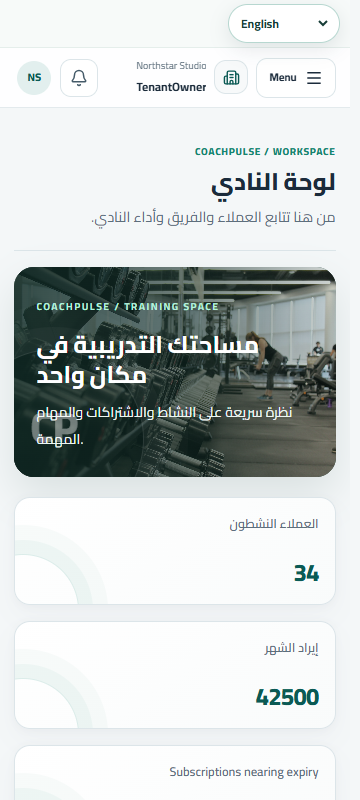
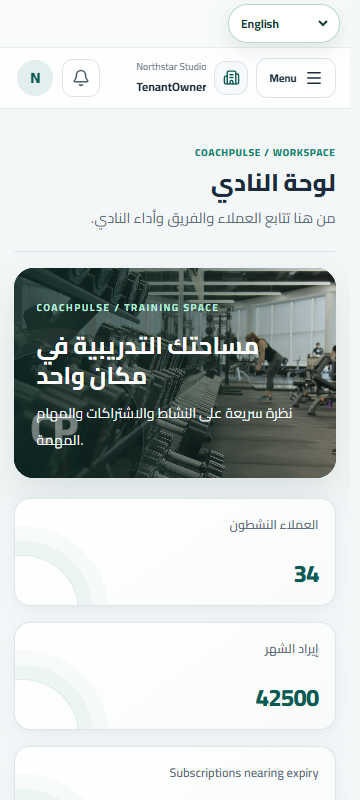
feat(frontend): improve profile and exercise cards

diff --git a/CoachPulse.Frontend/src/App.tsx b/CoachPulse.Frontend/src/App.tsx
@@ -379,7 +379,6 @@ function Shell() {
     { to: '/app/conversations', label: t('Conversations'), icon: MessageCircle },
     { to: '/app/payments', label: t('Payments'), icon: CreditCard },
     { to: '/app/subscriptions', label: t('Subscriptions'), icon: CreditCard },
-    { to: '/app/notifications', label: t('Notifications'), icon: Bell },
     { to: '/app/ai', label: t('AI tools'), icon: Sparkles },
     { to: '/app/ai-review', label: t('AI review'), icon: Check },
     ...(owner ? [{ to: '/app/settings', label: t('Workspace settings'), icon: Settings }, { to: '/app/analytics', label: t('Analytics'), icon: BarChart3 }, { to: '/app/audit', label: t('Audit log'), icon: ScrollText }] : []),
@@ -388,8 +387,8 @@ function Shell() {
     <button className="workspace-scrim" aria-label="Close navigation" onClick={closeDrawer} tabIndex={drawerOpen ? 0 : -1} />
     <aside id="workspace-navigation" className="workspace-drawer"><div className="workspace-sidebar-brand"><Link className="brand" to="/app/dashboard">Coach<span>Pulse</span></Link><button type="button" className="workspace-sidebar-collapse" aria-label={sidebarCollapsed ? t('Expand sidebar') : t('Collapse sidebar')} onClick={() => setSidebarCollapsed(value => !value)}>{sidebarCollapsed ? <PanelLeftOpen size={18} /> : <PanelLeftClose size={18} />}</button></div><div className="identity"><span className="identity-name">{tenantName || me.data?.name || 'Workspace'}</span><small>{me.data?.role}</small></div><nav onClick={closeDrawer} aria-label={t('Workspace navigation')}>
       {navItems.map(({ to, label, icon: Icon }) => <NavLink to={to} key={to} title={label}><Icon size={18} aria-hidden="true" /><span>{label}</span></NavLink>)}
-    </nav><button className="logout" onClick={() => void logout()}><LogOut size={17} /><span>{t('Sign out')}</span></button></aside>
-    <main dir={language === 'ar' ? 'rtl' : 'ltr'}><WorkspaceTopbar name={me.data?.name || 'Workspace'} role={me.data?.role || 'CoachStaff'} tenantName={tenantName} logoUrl={logoUrl} accountPath="/app/account" onLogout={() => void logout()} onToggleDrawer={() => setDrawerOpen(value => !value)} onToggleSidebar={() => setSidebarCollapsed(value => !value)} drawerOpen={drawerOpen} collapsed={sidebarCollapsed} /><Routes>
+    </nav></aside>
+    <main dir={language === 'ar' ? 'rtl' : 'ltr'}><WorkspaceTopbar name={me.data?.name || 'Workspace'} role={me.data?.role || 'CoachStaff'} tenantName={tenantName} logoUrl={logoUrl} avatarFileId={stringField(me.data, 'avatarFileId') || ''} accountPath="/app/account" onLogout={() => void logout()} onToggleDrawer={() => setDrawerOpen(value => !value)} onToggleSidebar={() => setSidebarCollapsed(value => !value)} drawerOpen={drawerOpen} collapsed={sidebarCollapsed} /><Routes>
       <Route path="dashboard" element={<Dashboard />} /><Route path="clients" element={<Clients />} /><Route path="coaches" element={<CoachTeamWorkspace />} /><Route path="team" element={me.data?.role === 'TenantOwner' ? <CoachTeamWorkspace /> : <Navigate to="dashboard" replace />} /><Route path="checkins-review" element={<PendingCheckInReviews />} /><Route path="programs" element={<CoachPrograms />} /><Route path="exercises" element={<ExerciseLibrary />} /><Route path="meal-plans" element={<MealPlanWorkspace />} /><Route path="plans" element={me.data?.role === 'TenantOwner' ? <TenantPlans /> : <Navigate to="dashboard" replace />} /><Route path="conversations" element={<Conversations />} /><Route path="payments" element={<><Payments /><TenantPaymentInsights /></>} /><Route path="subscriptions" element={<SubscriptionManagement />} /><Route path="notifications" element={<NotificationCenter />} /><Route path="ai" element={<AiWorkspace />} /><Route path="ai-review" element={<AiAdvancedWorkspace />} /><Route path="settings" element={<TenantSettings />} /><Route path="analytics" element={<TenantAnalytics />} /><Route path="audit" element={<TenantAudit />} /><Route path="account" element={<AccountPage />} /><Route path="*" element={<Navigate to="dashboard" replace />} />
     </Routes></main>
   </div>
@@ -412,20 +411,29 @@ function tenantThemeStyle(value: unknown): React.CSSProperties {
   return { '--tenant-primary': hex, '--tenant-primary-dark': dark, '--tenant-on-primary': onPrimary } as React.CSSProperties
 }
 
-function WorkspaceTopbar({ name, role, tenantName, logoUrl, accountPath, onLogout, onToggleDrawer, onToggleSidebar, drawerOpen, collapsed }: { name: string; role: string; tenantName?: string; logoUrl?: string; accountPath: string; onLogout: () => void; onToggleDrawer: () => void; onToggleSidebar: () => void; drawerOpen: boolean; collapsed: boolean }) {
+function WorkspaceTopbar({ name, role, tenantName, logoUrl, avatarFileId, accountPath, onLogout, onToggleDrawer, onToggleSidebar, drawerOpen, collapsed }: { name: string; role: string; tenantName?: string; logoUrl?: string; avatarFileId?: string; accountPath: string; onLogout: () => void; onToggleDrawer: () => void; onToggleSidebar: () => void; drawerOpen: boolean; collapsed: boolean }) {
   const { t } = useLanguage()
   const notifications = useNotifications(1, 50, true)
   const unreadData = notifications.data && typeof notifications.data === 'object' ? notifications.data as Record<string, unknown> : {}
   const unreadCount = Number(unreadData.unreadCount ?? unreadData.unreadTotal ?? objectItems(notifications.data).length)
-  const initials = name.split(/\s+/).filter(Boolean).slice(0, 2).map(part => part[0]?.toLocaleUpperCase()).join('') || 'CP'
   return <header className="workspace-topbar">
     <div className="workspace-topbar-context"><button className="workspace-menu-toggle" aria-label={drawerOpen ? t('Close navigation') : t('Open navigation')} aria-expanded={drawerOpen} aria-controls="workspace-navigation" onClick={onToggleDrawer}>{drawerOpen ? <X size={18} /> : <Menu size={18} />}<span>{t('Menu')}</span></button><div className="workspace-context-brand">{logoUrl ? <img src={logoUrl} alt="" /> : <span className="workspace-context-mark"><Building2 size={17} /></span>}<span><small>{tenantName || t('Coaching workspace')}</small><strong>{t(role)}</strong></span></div></div>
-    <div className="workspace-topbar-actions"><Link className="workspace-notification-link" to={accountPath.replace(/account|profile$/, 'notifications')} aria-label={`${t('Notifications')}${unreadCount ? `, ${unreadCount} ${t('unread')}` : ''}`}><Bell size={18} />{unreadCount > 0 && <span className="workspace-unread-badge">{unreadCount > 99 ? '99+' : unreadCount}</span>}</Link><details className="workspace-user-menu"><summary><span className="workspace-user-avatar">{initials}</span><span className="workspace-user-copy"><strong>{name}</strong><small>{tenantName || t(role)}</small></span><ChevronDown size={15} /></summary><div className="workspace-user-popover"><Link to={accountPath}><UserRound size={16} />{t('Account')}</Link><button type="button" onClick={onLogout}><LogOut size={16} />{t('Sign out')}</button></div></details><button type="button" className="workspace-collapse-toggle" aria-label={collapsed ? t('Expand sidebar') : t('Collapse sidebar')} title={collapsed ? t('Expand sidebar') : t('Collapse sidebar')} onClick={onToggleSidebar}>{collapsed ? <PanelLeftOpen size={18} /> : <PanelLeftClose size={18} />}</button></div>
+    <div className="workspace-topbar-actions"><Link className="workspace-notification-link" to={accountPath.replace(/account|profile$/, 'notifications')} aria-label={`${t('Notifications')}${unreadCount ? `, ${unreadCount} ${t('unread')}` : ''}`}><Bell size={18} />{unreadCount > 0 && <span className="workspace-unread-badge">{unreadCount > 99 ? '99+' : unreadCount}</span>}</Link><details className="workspace-user-menu"><summary><AccountAvatar fileId={avatarFileId || ''} name={name} /><span className="workspace-user-copy"><strong>{name}</strong><small>{tenantName || t(role)}</small></span><ChevronDown size={15} /></summary><div className="workspace-user-popover"><Link to={accountPath}><UserRound size={16} />{t('Account')}</Link><button type="button" onClick={onLogout}><LogOut size={16} />{t('Sign out')}</button></div></details><button type="button" className="workspace-collapse-toggle" aria-label={collapsed ? t('Expand sidebar') : t('Collapse sidebar')} title={collapsed ? t('Expand sidebar') : t('Collapse sidebar')} onClick={onToggleSidebar}>{collapsed ? <PanelLeftOpen size={18} /> : <PanelLeftClose size={18} />}</button></div>
   </header>
 }
 
 function DashboardHero({ title, subtitle, image }: { title: string; subtitle: string; image: string }) { const { t } = useLanguage(); return <section className="visual-hero"><img src={image} alt="" loading="lazy" /><div className="visual-hero-shade" /><div className="visual-hero-copy"><span className="eyebrow">COACHPULSE / TRAINING SPACE</span><h2>{t(title)}</h2><p>{t(subtitle)}</p></div><div className="visual-hero-mark" aria-hidden="true"><span>CP</span></div></section> }
-function ExerciseMedia({ value }: { value: unknown }) { const videoUrl = stringField(value, 'videoUrl'); const mediaUrl = (() => { try { const parsed = videoUrl ? new URL(videoUrl) : null; return parsed?.protocol === 'https:' ? parsed : null } catch { return null } })(); const directVideo = Boolean(mediaUrl && /\.(mp4|webm)$/i.test(mediaUrl.pathname)); return <section className="exercise-media"><div className="exercise-media-image"><img src="/media/exercise-training.jpg" alt="Strength training equipment" loading="lazy" /></div><div className="exercise-media-copy"><span className="eyebrow">MOVEMENT LIBRARY</span><h3>{stringField(value, 'name') ?? 'Exercise preview'}</h3><p>{stringField(value, 'muscleGroup') ?? 'Explore the selected movement and its training details.'}</p>{directVideo && mediaUrl ? <video controls preload="metadata" playsInline src={mediaUrl.href} aria-label="Exercise demonstration video" /> : mediaUrl ? <a className="media-link" href={mediaUrl.href} target="_blank" rel="noreferrer">Open exercise demonstration</a> : <small>Add a secure demo video URL to this exercise to show it here.</small>}</div></section> }
+function exerciseMediaUrl(value: unknown) { try { const url = new URL(stringField(value, 'videoUrl') || ''); return url.protocol === 'https:' ? url : null } catch { return null } }
+function ExerciseVideo({ value }: { value: unknown }) {
+  const url = exerciseMediaUrl(value)
+  if (!url) return <p className="exercise-video-unavailable">No demonstration video is available for this exercise yet.</p>
+  if (/\.(mp4|webm|ogg)$/i.test(url.pathname)) return <video className="exercise-video-player" controls preload="metadata" playsInline src={url.href} aria-label={`${stringField(value, 'name') ?? 'Exercise'} demonstration video`} />
+  const youtubeId = url.hostname === 'youtu.be' ? url.pathname.slice(1) : ['youtube.com', 'www.youtube.com', 'm.youtube.com', 'youtube-nocookie.com', 'www.youtube-nocookie.com'].includes(url.hostname) ? url.pathname === '/watch' ? url.searchParams.get('v') : url.pathname.split('/').filter(Boolean).at(-1) : null
+  const vimeoId = ['vimeo.com', 'www.vimeo.com', 'player.vimeo.com'].includes(url.hostname) ? url.pathname.split('/').filter(Boolean).at(-1) : null
+  const embedUrl = youtubeId && /^[\w-]{11}$/.test(youtubeId) ? `https://www.youtube-nocookie.com/embed/${youtubeId}` : vimeoId && /^\d+$/.test(vimeoId) ? `https://player.vimeo.com/video/${vimeoId}` : null
+  return <div className="exercise-video-frame">{embedUrl ? <iframe src={embedUrl} title={`${stringField(value, 'name') ?? 'Exercise'} demonstration video`} loading="lazy" allow="accelerometer; autoplay; clipboard-write; encrypted-media; gyroscope; picture-in-picture; web-share" referrerPolicy="strict-origin-when-cross-origin" allowFullScreen /> : <a className="media-link" href={url.href} target="_blank" rel="noreferrer">Open exercise demonstration</a>}</div>
+}
+function ExerciseMedia({ value }: { value: unknown }) { return <section className="exercise-media"><div className="exercise-media-image"><img src="/media/exercise-training.jpg" alt="Strength training equipment" loading="lazy" /></div><div className="exercise-media-copy"><span className="eyebrow">MOVEMENT LIBRARY</span><h3>{stringField(value, 'name') ?? 'Exercise preview'}</h3><p>{stringField(value, 'muscleGroup') ?? 'Explore the selected movement and its training details.'}</p><ExerciseVideo value={value} /></div></section> }
 
 function DashboardLegacy() {
   const query = useDashboard()
@@ -1795,6 +1803,7 @@ function TenantAudit() {
   </Page>
 }
 function MyProgram() {
+  const { t } = useLanguage()
   const today = useMyProgram()
   const history = useQuery({ queryKey: ['my', 'programs'], queryFn: () => apiFetch<unknown>('/my/programs?page=1&pageSize=20') })
   if (today.isLoading || history.isLoading) return <Loading />
@@ -1809,7 +1818,7 @@ function MyProgram() {
       {activeProgram ? <><h3>{String(activeProgram.title ?? 'Training program')}</h3><div className="data-grid"><div className="data-field"><dt>Status</dt><dd>{String(activeProgram.status ?? 'Active')}</dd></div>{Boolean(activeProgram.startDate) && <div className="data-field"><dt>Start date</dt><dd><DataValue value={activeProgram.startDate} /></dd></div>}</div></> : <p className="empty-state">Your coach has not assigned a program yet. Your training plan will appear here once it is assigned.</p>}
     </section>
     <section className="panel"><div className="section-heading"><div><span className="eyebrow">{todayData.dayNumber ? 'Training day ' + String(todayData.dayNumber) : 'Today'}</span><h2>Today's exercises</h2></div></div>
-      {exercises.length ? <div className="client-exercise-list">{exercises.map((exercise,index)=><article className="client-exercise-card" key={String(exercise.id ?? index)}><div><h3>{String(exercise.exerciseName ?? exercise.name ?? 'Exercise')}</h3><p>{String(exercise.muscleGroup ?? '')}</p></div><span>{String(exercise.sets ?? '?')} sets</span><span>{String(exercise.reps ?? '?')} reps</span></article>)}</div> : <div className="empty-state callout"><strong>{activeProgram ? 'Rest day' : 'No training plan yet'}</strong><p>{activeProgram ? 'There are no exercises scheduled today. Take time to recover.' : 'Your workout schedule will appear here after your coach assigns a program.'}</p></div>}
+      {exercises.length ? <div className="client-exercise-list">{exercises.map((exercise,index)=><article className="client-exercise-card" key={String(exercise.id ?? index)}><div className="client-exercise-heading"><span className="exercise-card-icon" aria-hidden="true"><Dumbbell size={18} /></span><div><h3>{String(exercise.exerciseName ?? exercise.name ?? t('Exercise'))}</h3><p>{String(exercise.muscleGroup ?? t('Muscle group not specified'))}</p></div></div><div className="client-exercise-stats"><span><strong>{String(exercise.sets ?? '?')}</strong>{t('sets')}</span><span><strong>{String(exercise.reps ?? '?')}</strong>{t('reps')}</span>{exercise.restSeconds != null && <span><strong>{String(exercise.restSeconds)}</strong>{t('seconds rest')}</span>}</div><details className="client-exercise-details"><summary>{t('Exercise details and video')}</summary><div className="client-exercise-expanded"><dl><div><dt>{t('Muscle group')}</dt><dd>{String(exercise.muscleGroup ?? t('Not specified'))}</dd></div><div><dt>{t('Sets')}</dt><dd>{String(exercise.sets ?? '?')}</dd></div><div><dt>{t('Reps')}</dt><dd>{String(exercise.reps ?? '?')}</dd></div>{exercise.restSeconds != null && <div><dt>{t('Rest')}</dt><dd>{String(exercise.restSeconds)} {t('seconds')}</dd></div>}</dl><ExerciseVideo value={{ ...exercise, name: exercise.exerciseName ?? exercise.name ?? t('Exercise') }} /></div></details></article>)}</div> : <div className="empty-state callout"><strong>{activeProgram ? 'Rest day' : 'No training plan yet'}</strong><p>{activeProgram ? 'There are no exercises scheduled today. Take time to recover.' : 'Your workout schedule will appear here after your coach assigns a program.'}</p></div>}
     </section>
     <section className="panel"><div className="section-heading"><div><span className="eyebrow">Training history</span><h2>Past and current programs</h2></div></div>{programs.length ? <div className="client-program-list">{programs.map((item,index)=><article className="client-program-card" key={String(item.id ?? index)}><div><h3>{String(item.title ?? 'Training program')}</h3><small>{item.startDate ? new Intl.DateTimeFormat('en',{dateStyle:'medium'}).format(new Date(String(item.startDate))) : 'Start date unavailable'}</small></div><span className={String(item.status).toLowerCase()==='active'?'status-pill positive':'status-pill'}>{String(item.status ?? '?')}</span></article>)}</div> : <p className="empty-state">No training history yet.</p>}</section>
   </Page>
@@ -1844,10 +1853,9 @@ function MyShell() {
     { to: '/my/checkins', label: t('Check-ins'), icon: Check },
     { to: '/my/payments', label: t('Subscription & payments'), icon: CreditCard },
     { to: '/my/messages', label: t('Messages'), icon: MessageCircle },
-    { to: '/my/notifications', label: t('Notifications'), icon: Bell },
     { to: '/my/onboarding', label: t('Getting started'), icon: UserRound },
   ]
-  return <div className={`shell workspace-shell client-shell${drawerOpen ? ' drawer-open' : ''}${sidebarCollapsed ? ' sidebar-collapsed' : ''}`}><button className="workspace-scrim" aria-label="Close navigation" onClick={closeDrawer} tabIndex={drawerOpen ? 0 : -1} /><aside id="workspace-navigation" className="workspace-drawer"><div className="workspace-sidebar-brand"><Link className="brand" to="/my/dashboard">Coach<span>Pulse</span></Link><button type="button" className="workspace-sidebar-collapse" aria-label={sidebarCollapsed ? t('Expand sidebar') : t('Collapse sidebar')} onClick={() => setSidebarCollapsed(value => !value)}>{sidebarCollapsed ? <PanelLeftOpen size={18} /> : <PanelLeftClose size={18} />}</button></div><div className="identity"><span className="identity-name">{me.data?.name || 'My workspace'}</span><small>{t('Client')}</small></div><nav onClick={closeDrawer} aria-label={t('Workspace navigation')}>{navItems.map(({ to, label, icon: Icon }) => <NavLink to={to} key={to} title={label}><Icon size={18} aria-hidden="true" /><span>{label}</span></NavLink>)}</nav><button className="logout" onClick={() => void logout()}><LogOut size={17} /><span>{t('Sign out')}</span></button></aside><main dir={language === 'ar' ? 'rtl' : 'ltr'}><WorkspaceTopbar name={me.data?.name || 'Client'} role="Client" accountPath="/my/profile" onLogout={() => void logout()} onToggleDrawer={() => setDrawerOpen(value => !value)} onToggleSidebar={() => setSidebarCollapsed(value => !value)} drawerOpen={drawerOpen} collapsed={sidebarCollapsed} /><Routes><Route path="dashboard" element={<MyDashboard />} /><Route path="onboarding" element={<OnboardingPage />} /><Route path="profile" element={<ClientProfile />} /><Route path="progress" element={<MyProgress />} /><Route path="program" element={<MyProgram />} /><Route path="workouts" element={<WorkoutLogsPage />} /><Route path="meal-plan" element={<><MyMealPlan /><MealLogAction /></>} /><Route path="checkins" element={<><CheckInsPage /><CheckInManagement /></>} /><Route path="payments" element={<><ClientSubscriptionPage /><ClientSubscriptionLifecycle /><ClientPaymentDetails /></>} /><Route path="payment/return" element={<PaymobPaymentReturn />} /><Route path="messages" element={<ClientMessages />} /><Route path="notifications" element={<NotificationCenter />} /><Route path="*" element={<Navigate to="dashboard" replace />} /></Routes></main></div>
+  return <div className={`shell workspace-shell client-shell${drawerOpen ? ' drawer-open' : ''}${sidebarCollapsed ? ' sidebar-collapsed' : ''}`}><button className="workspace-scrim" aria-label="Close navigation" onClick={closeDrawer} tabIndex={drawerOpen ? 0 : -1} /><aside id="workspace-navigation" className="workspace-drawer"><div className="workspace-sidebar-brand"><Link className="brand" to="/my/dashboard">Coach<span>Pulse</span></Link><button type="button" className="workspace-sidebar-collapse" aria-label={sidebarCollapsed ? t('Expand sidebar') : t('Collapse sidebar')} onClick={() => setSidebarCollapsed(value => !value)}>{sidebarCollapsed ? <PanelLeftOpen size={18} /> : <PanelLeftClose size={18} />}</button></div><div className="identity"><span className="identity-name">{me.data?.name || 'My workspace'}</span><small>{t('Client')}</small></div><nav onClick={closeDrawer} aria-label={t('Workspace navigation')}>{navItems.map(({ to, label, icon: Icon }) => <NavLink to={to} key={to} title={label}><Icon size={18} aria-hidden="true" /><span>{label}</span></NavLink>)}</nav></aside><main dir={language === 'ar' ? 'rtl' : 'ltr'}><WorkspaceTopbar name={me.data?.name || 'Client'} role="Client" avatarFileId={stringField(me.data, 'avatarFileId') || ''} accountPath="/my/profile" onLogout={() => void logout()} onToggleDrawer={() => setDrawerOpen(value => !value)} onToggleSidebar={() => setSidebarCollapsed(value => !value)} drawerOpen={drawerOpen} collapsed={sidebarCollapsed} /><Routes><Route path="dashboard" element={<MyDashboard />} /><Route path="onboarding" element={<OnboardingPage />} /><Route path="profile" element={<ClientProfile />} /><Route path="progress" element={<MyProgress />} /><Route path="program" element={<MyProgram />} /><Route path="workouts" element={<WorkoutLogsPage />} /><Route path="meal-plan" element={<><MyMealPlan /><MealLogAction /></>} /><Route path="checkins" element={<><CheckInsPage /><CheckInManagement /></>} /><Route path="payments" element={<><ClientSubscriptionPage /><ClientSubscriptionLifecycle /><ClientPaymentDetails /></>} /><Route path="payment/return" element={<PaymobPaymentReturn />} /><Route path="messages" element={<ClientMessages />} /><Route path="notifications" element={<NotificationCenter />} /><Route path="*" element={<Navigate to="dashboard" replace />} /></Routes></main></div>
 }
 function RouteScrollReset() { const { pathname } = useLocation(); useEffect(() => { window.scrollTo({ top: 0, left: 0, behavior: 'auto' }); document.querySelector('.shell main')?.scrollTo({ top: 0, left: 0 }); }, [pathname]); return null }
 function Table({ headers, rows }: { headers: string[]; rows: (string | number)[][] }) { return <section className="panel table-wrap"><table><thead><tr>{headers.map(header => <th key={header}>{header}</th>)}</tr></thead><tbody>{rows.length ? rows.map((row, index) => <tr key={index}>{row.map((cell, cellIndex) => <td key={cellIndex}>{cell}</td>)}</tr>) : <tr><td colSpan={headers.length}>لا توجد بيايات</td></tr>}</tbody></table></section> }

diff --git a/CoachPulse.Frontend/src/styles.css b/CoachPulse.Frontend/src/styles.css
@@ -701,6 +701,47 @@ option{background:#fff;color:#203448}
 @media(max-width:700px){.workspace-shell .page-sections>.panel{padding:16px}.workspace-shell .page-sections>.panel:hover{box-shadow:var(--cp-shadow)}.workspace-shell .page-sections .section-heading{gap:10px}}
 @media(prefers-reduced-motion:reduce){.workspace-shell .page-sections>.panel,.workspace-shell .page-sections :is(.program-list-card,.client-plan-option,.exercise-library-card),.admin-shell .admin-page-content :is(.panel,.admin-kpi){transition:none}}
 
+.workspace-shell .workspace-user-menu .account-avatar-preview{width:36px;height:36px;min-width:36px;margin:0;border:0;box-shadow:none;font-size:15px}
+.workspace-shell .workspace-user-menu .account-avatar-fallback{display:grid;place-items:center;background:color-mix(in srgb,var(--workspace-accent) 12%,white);color:var(--workspace-accent-dark)}
+.workspace-shell .workspace-user-menu summary{gap:10px}
+.workspace-shell .workspace-user-menu summary:hover .account-avatar-preview{box-shadow:0 0 0 3px color-mix(in srgb,var(--workspace-accent) 15%,transparent)}
+.workspace-shell .coach-team-card{border-color:var(--color-line);background:var(--color-surface);color:var(--color-ink);box-shadow:var(--shadow-card)}
+.workspace-shell .coach-team-card:hover,.workspace-shell .coach-team-card.selected{border-color:color-mix(in srgb,var(--workspace-accent) 42%,white);background:color-mix(in srgb,var(--workspace-accent) 5%,white);box-shadow:0 0 0 3px color-mix(in srgb,var(--workspace-accent) 10%,transparent),var(--shadow-card)}
+.workspace-shell .coach-team-card-copy strong{color:var(--color-ink);font-size:14px}
+.workspace-shell .coach-team-card-copy small{color:var(--color-muted)}
+.workspace-shell .coach-team-avatar{border:1px solid color-mix(in srgb,var(--workspace-accent) 15%,white);background:color-mix(in srgb,var(--workspace-accent) 10%,white);color:var(--workspace-accent-dark)}
+.workspace-shell .exercise-library-card,.workspace-shell .page-sections button.exercise-library-card{border-color:var(--color-line);background:var(--color-surface);color:var(--color-ink);box-shadow:var(--shadow-card)}
+.workspace-shell .exercise-library-card:hover,.workspace-shell .page-sections button.exercise-library-card:hover{border-color:color-mix(in srgb,var(--workspace-accent) 38%,white);background:color-mix(in srgb,var(--workspace-accent) 3%,white);color:var(--color-ink);box-shadow:0 12px 26px #19364a12}
+.workspace-shell .exercise-library-card.selected,.workspace-shell .page-sections button.exercise-library-card.selected{border-color:var(--workspace-accent);background:color-mix(in srgb,var(--workspace-accent) 7%,white);color:var(--color-ink);box-shadow:0 0 0 3px color-mix(in srgb,var(--workspace-accent) 13%,transparent)}
+.workspace-shell .exercise-card-icon{border-color:color-mix(in srgb,var(--workspace-accent) 16%,white);background:color-mix(in srgb,var(--workspace-accent) 10%,white);color:var(--workspace-accent-dark)}
+.workspace-shell .exercise-card-title{color:var(--color-ink)}
+.workspace-shell .exercise-card-tags>span{border-color:var(--color-line);background:var(--color-soft);color:var(--color-muted)}
+.workspace-shell .exercise-card-tags small{color:var(--color-muted)}
+.workspace-shell .exercise-card-tags b{color:var(--color-ink)}
+.workspace-shell .exercise-video-indicator{color:var(--workspace-accent-dark)}
+.workspace-shell .exercise-card-bottom{border-color:var(--color-line)}
+.workspace-shell .client-exercise-card{display:grid;grid-template-columns:minmax(0,1fr) auto;gap:14px 18px;padding:18px;border:1px solid var(--color-line);border-radius:var(--radius-md);background:linear-gradient(145deg,var(--color-surface),var(--color-soft));box-shadow:var(--shadow-card)}
+.workspace-shell .client-exercise-heading{display:flex;align-items:center;gap:12px;min-width:0}
+.workspace-shell .client-exercise-heading>div{min-width:0}
+.workspace-shell .client-exercise-heading h3{overflow-wrap:anywhere}
+.workspace-shell .client-exercise-stats{display:flex;align-items:center;justify-content:flex-end;flex-wrap:wrap;gap:8px}
+.workspace-shell .client-exercise-stats span{display:flex;align-items:baseline;gap:5px;padding:7px 10px;border:1px solid var(--color-line);border-radius:10px;background:var(--color-surface);color:var(--color-muted);font-size:12px}
+.workspace-shell .client-exercise-stats strong{color:var(--workspace-accent-dark);font-size:15px;font-variant-numeric:tabular-nums}
+.workspace-shell .client-exercise-details{grid-column:1/-1;border-top:1px solid var(--color-line);padding-top:12px}
+.workspace-shell .client-exercise-details summary{width:max-content;max-width:100%;color:var(--workspace-accent-dark);font-size:13px;font-weight:750;cursor:pointer}
+.workspace-shell .client-exercise-expanded{display:grid;gap:14px;margin-top:14px}
+.workspace-shell .client-exercise-expanded dl{display:grid;grid-template-columns:repeat(auto-fit,minmax(125px,1fr));gap:8px;margin:0}
+.workspace-shell .client-exercise-expanded dl>div{padding:10px 12px;border:1px solid var(--color-line);border-radius:10px;background:var(--color-surface)}
+.workspace-shell .client-exercise-expanded dt{color:var(--color-muted);font-size:11px}
+.workspace-shell .client-exercise-expanded dd{margin:4px 0 0;color:var(--color-ink);font-size:13px;font-weight:700}
+.exercise-video-player,.exercise-video-frame{display:block;width:min(100%,760px);aspect-ratio:16/9;border:1px solid var(--color-line);border-radius:var(--radius-md);background:#101a22;overflow:hidden}
+.exercise-video-player{height:auto;max-height:440px}
+.exercise-video-frame iframe{width:100%;height:100%;border:0}
+.exercise-video-frame:has(.media-link){display:grid;place-items:center;background:var(--color-soft)}
+.exercise-video-frame .media-link{padding:12px 16px;border-radius:10px;background:var(--workspace-accent);color:var(--color-on-primary);font-weight:750}
+.exercise-video-unavailable{margin:0;padding:13px 15px;border:1px dashed var(--color-line);border-radius:12px;background:var(--color-soft);color:var(--color-muted);font-size:13px}
+@media(max-width:650px){.workspace-shell .client-exercise-card{grid-template-columns:minmax(0,1fr);gap:12px;padding:14px}.workspace-shell .client-exercise-stats{justify-content:flex-start}.workspace-shell .client-exercise-details{grid-column:1}}
+
 /* Core product tokens and shared primitives used by all role workspaces. */
 :root{--focus-ring:0 0 0 3px color-mix(in srgb,var(--color-primary) 25%,transparent);--shadow-card:0 2px 8px #172b3a08,0 12px 28px #172b3a08;--shadow-popover:0 18px 50px #102a3820}
 html{font-family:Cairo,"IBM Plex Sans Arabic",system-ui,sans-serif;scrollbar-gutter:stable}

diff --git a/CoachPulse.Frontend/e2e/redesign-screenshots.spec.ts b/CoachPulse.Frontend/e2e/redesign-screenshots.spec.ts
@@ -64,3 +64,31 @@ test('captures each role dashboard responsively and checks shell overflow', asyn
     await page.close()
   }
 })
+
+test('keeps account, sign-out and notifications in the topbar outside the navigation drawer', async ({ page }) => {
+  await mockWorkspace(page, 'Client')
+  await page.setViewportSize({ width: 360, height: 800 })
+  await page.goto('/my/dashboard')
+  await page.locator('.workspace-user-menu summary').click()
+  await expect(page.locator('.workspace-user-popover a')).toHaveCount(1)
+  await expect(page.locator('.workspace-user-popover button')).toHaveCount(1)
+  await page.locator('.workspace-user-menu summary').click()
+  await page.getByRole('button', { name: 'Open navigation' }).click()
+  const drawer = page.locator('#workspace-navigation')
+  await expect(drawer).toBeVisible()
+  await expect(drawer.locator('.logout')).toHaveCount(0)
+  await expect(drawer.locator('a[href="/my/notifications"]')).toHaveCount(0)
+  await expect(page.locator('.workspace-notification-link')).toBeVisible()
+})
+
+test('client can expand an exercise and watch its demonstration video', async ({ page }) => {
+  await mockWorkspace(page, 'Client')
+  await page.route('**/api/my/program/today', route => route.fulfill({ status: 200, contentType: 'application/json', body: JSON.stringify({ dayNumber: 1, exercises: [{ id: 'program-exercise-1', exerciseId: 'exercise-1', exerciseName: 'Goblet squat', muscleGroup: 'Legs', videoUrl: 'https://www.youtube.com/watch?v=dQw4w9WgXcQ', sets: 3, reps: '10', restSeconds: 60 }] }) }))
+  await page.goto('/my/program')
+  const exerciseDetails = page.locator('.client-exercise-details')
+  await expect(exerciseDetails).toBeVisible()
+  await exerciseDetails.locator('summary').click()
+  await expect(exerciseDetails.locator('iframe')).toHaveAttribute('src', 'https://www.youtube-nocookie.com/embed/dQw4w9WgXcQ')
+  await expect(exerciseDetails.getByText('Legs')).toBeVisible()
+  await expect(exerciseDetails.getByText('60 seconds')).toBeVisible()
+})
